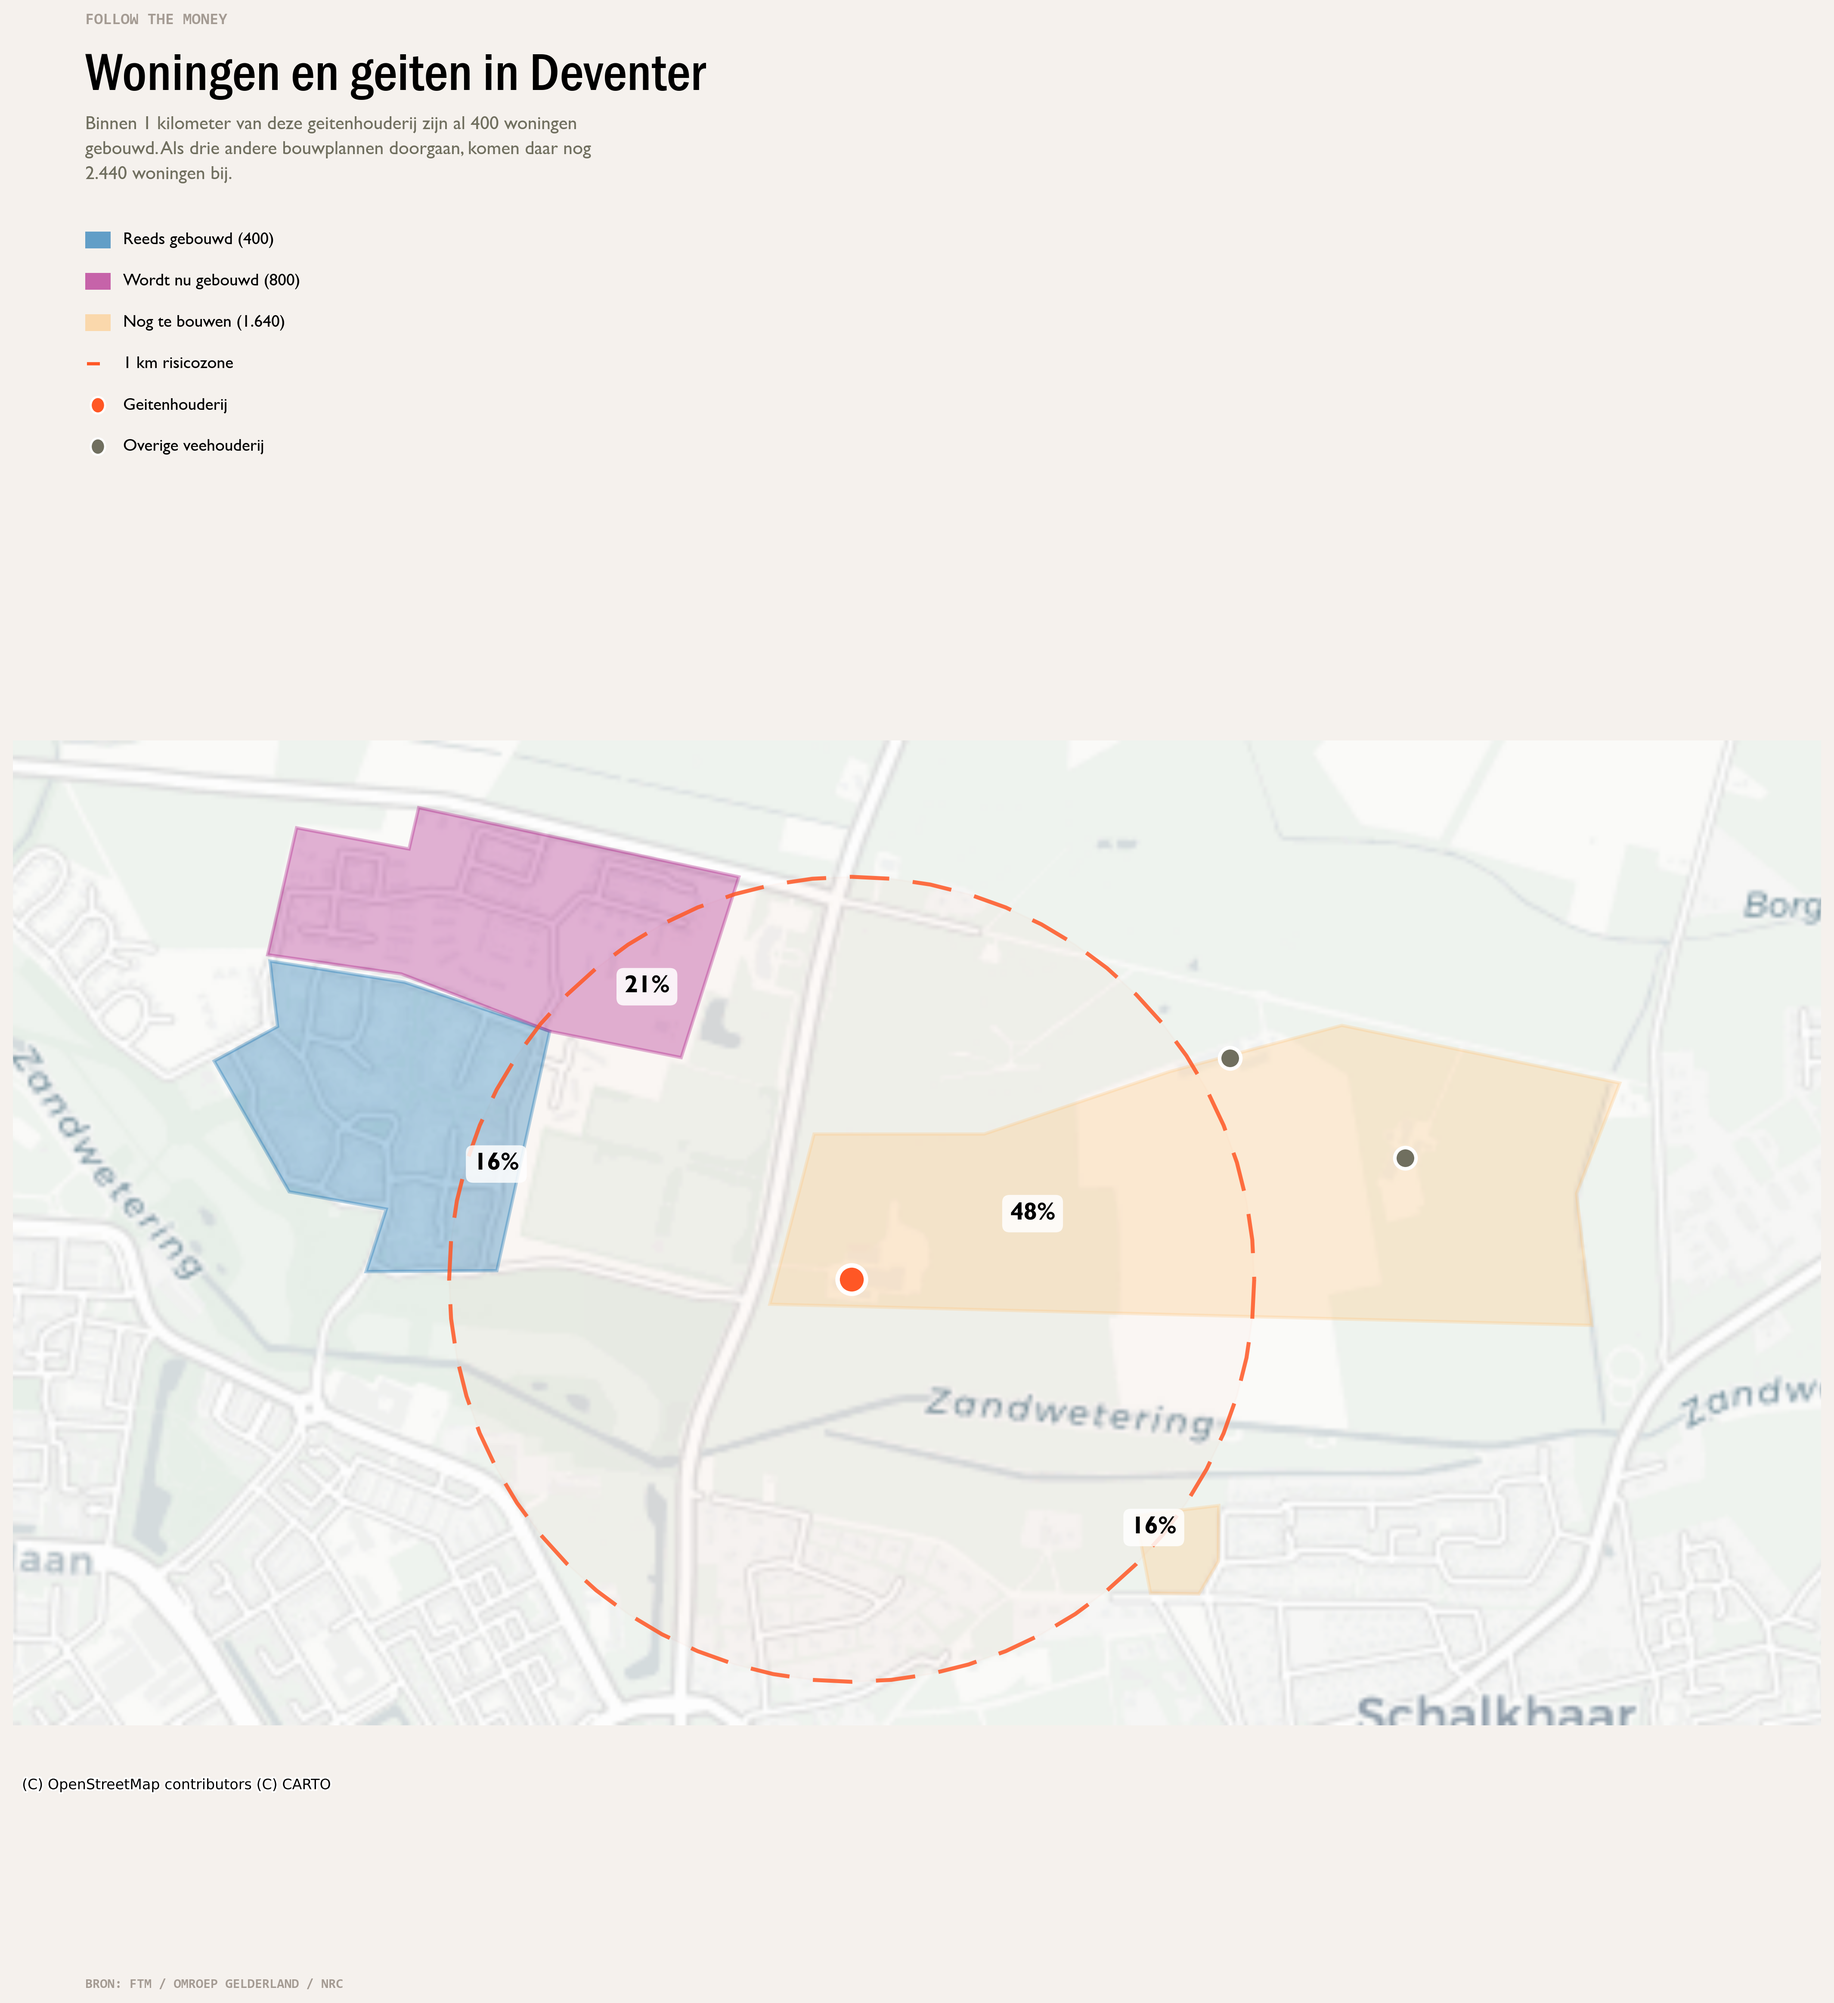
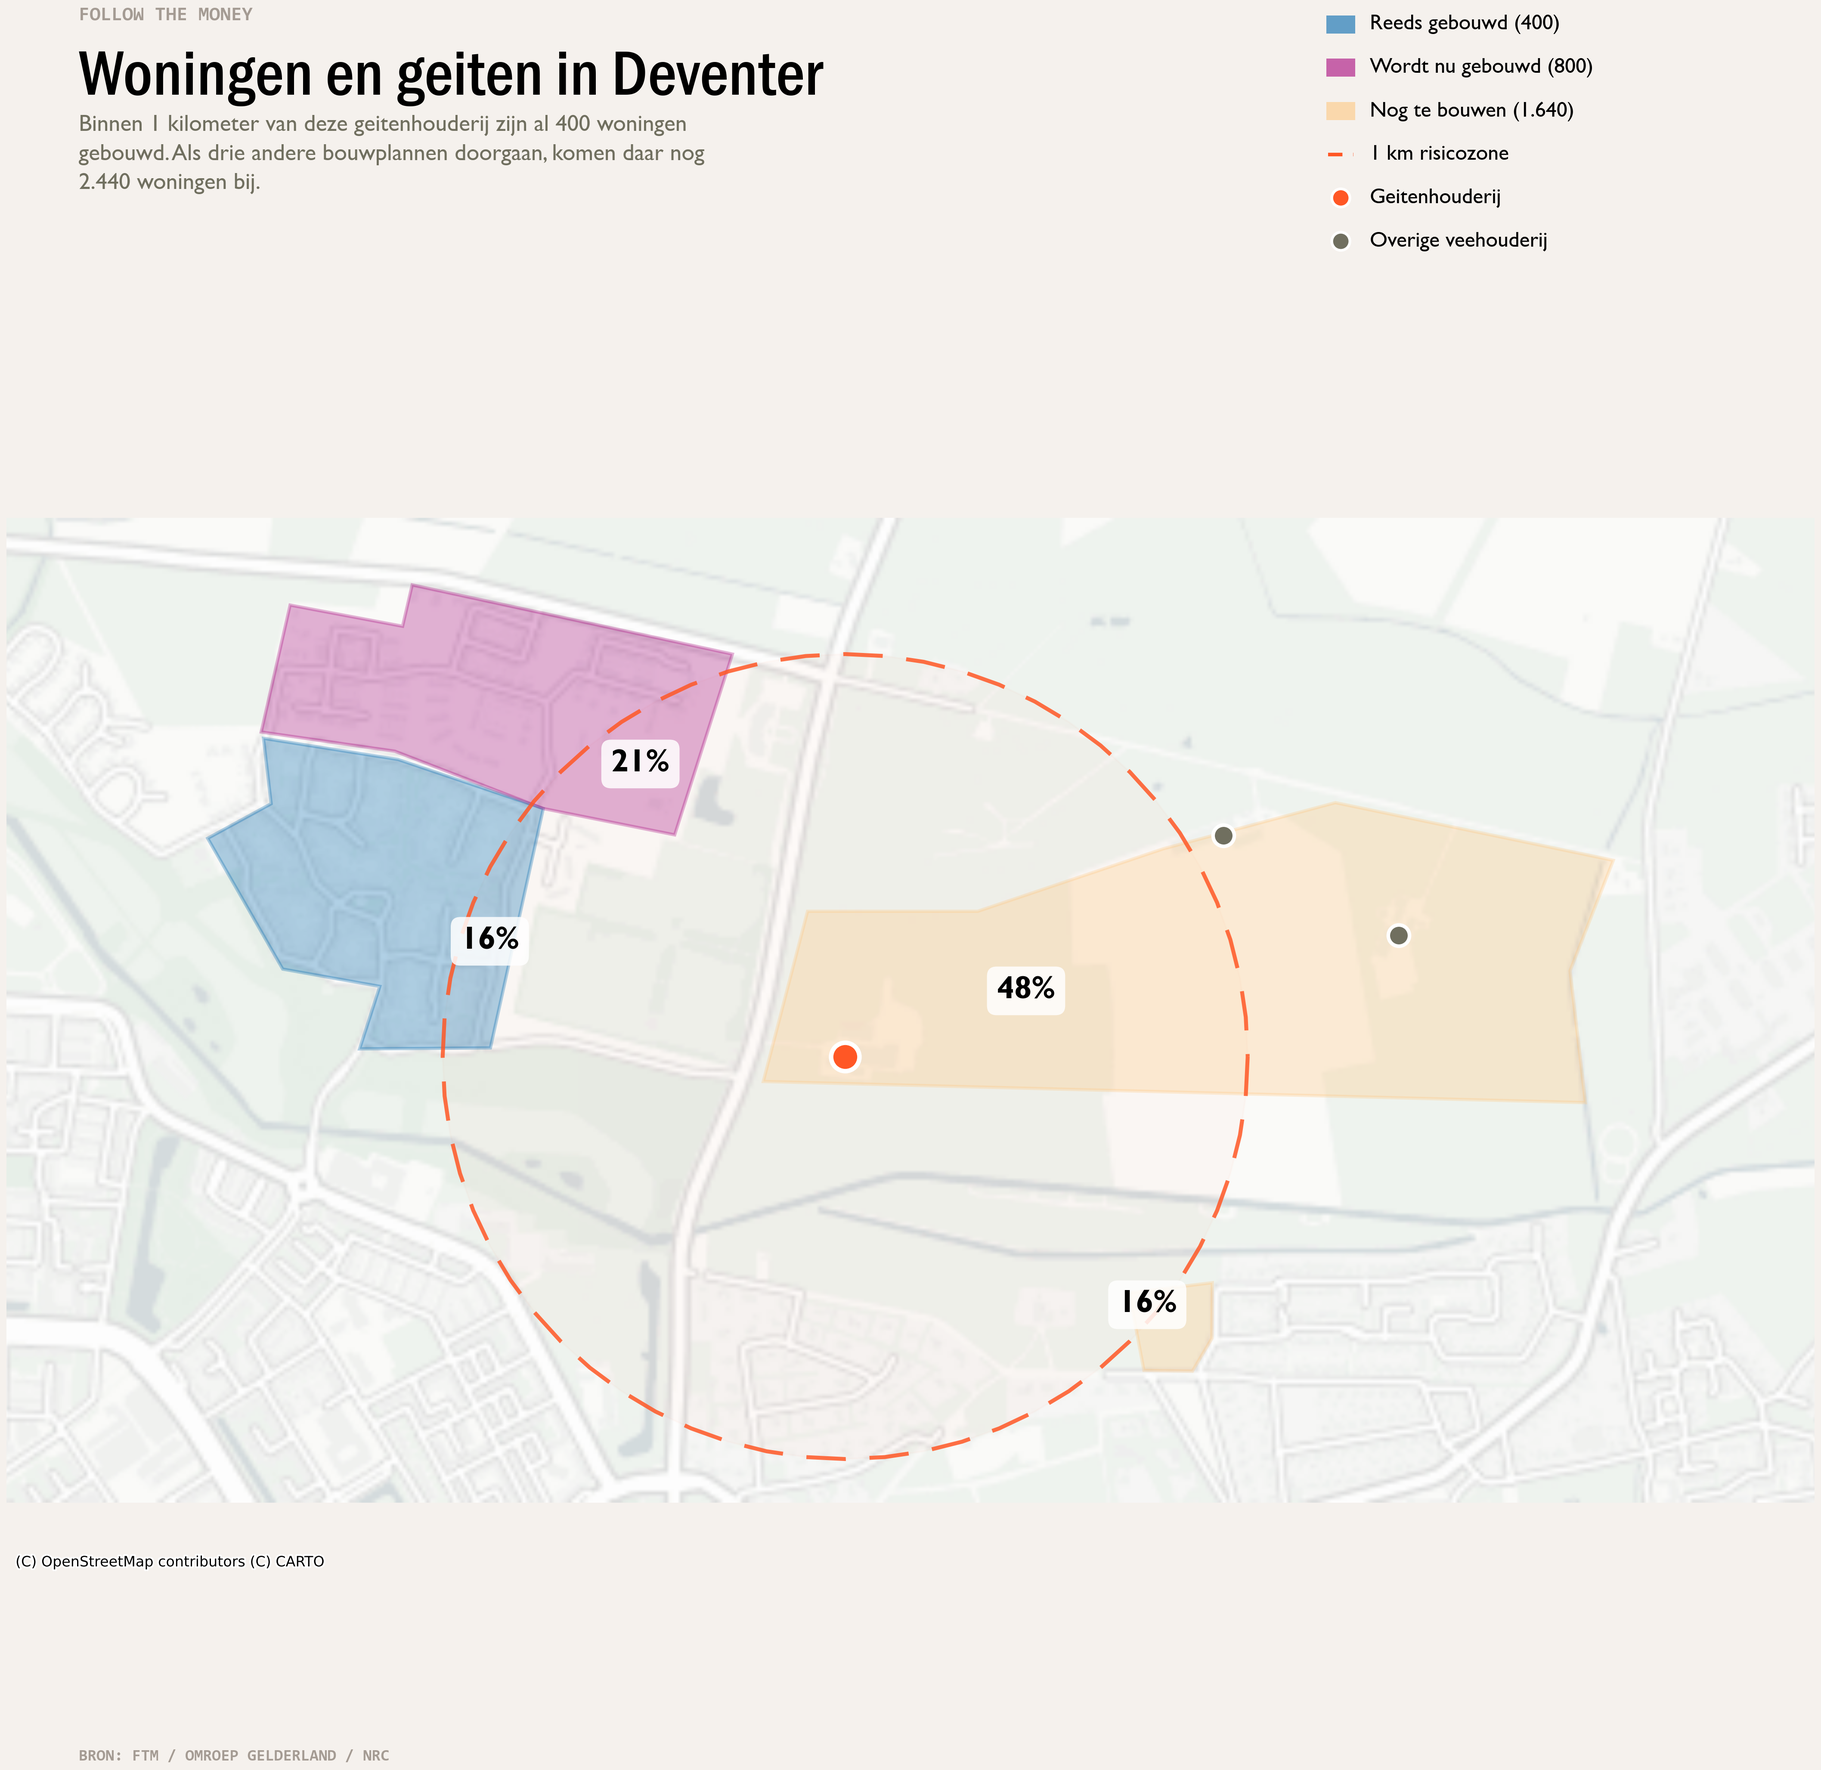
Tighten layout: legend top-right, bigger text, cleaner basemap
Move legend to top-right corner, increase all font sizes, switch to
PositronNoLabels basemap, and minimize margins between header and map.

diff --git a/create_map_image.py b/create_map_image.py
@@ -133,10 +133,10 @@ circle_geometry = goat_point.buffer(1000)
 # ============================================================
 # CREATE FIGURE
 # ============================================================
-fig = plt.figure(figsize=(14, 16), facecolor=C['offwhite'])
+fig = plt.figure(figsize=(14, 14), facecolor=C['offwhite'])
 
-# Map axes — positioned for editorial layout
-ax = fig.add_axes([0.0, 0.04, 1.0, 0.72])
+# Map axes — tight against header
+ax = fig.add_axes([0.0, 0.005, 1.0, 0.865])
 ax.set_facecolor(C['offwhite'])
 
 
@@ -161,7 +161,7 @@ for idx, row in gdf_polygons_mercator.iterrows():
         percentage = (intersection.area / row['geometry'].area) * 100
         centroid = intersection.centroid
         ax.text(centroid.x, centroid.y, f'{percentage:.0f}%',
-                fontsize=14, fontweight='bold', color=C['zwart'],
+                fontsize=18, fontweight='bold', color=C['zwart'],
                 fontfamily=FONT_UI,
                 ha='center', va='center',
                 bbox=dict(facecolor='white', edgecolor='none',
@@ -184,9 +184,9 @@ varkens_gdf.plot(ax=ax, color=C['dollargroen'], markersize=140, zorder=5,
 koeien_gdf.plot(ax=ax, color=C['dollargroen'], markersize=140, zorder=5,
                 edgecolor='white', linewidth=2, marker='o')
 
-# Basemap
+# Basemap — no labels for clean editorial look
 cx.add_basemap(ax, crs=gdf_polygons_mercator.crs,
-               source=cx.providers.CartoDB.Positron, zoom=14)
+               source=cx.providers.CartoDB.PositronNoLabels, zoom=14)
 
 # Bounds
 bounds = gdf_polygons_mercator.total_bounds
@@ -206,34 +206,34 @@ for spine in ax.spines.values():
 # ============================================================
 # Logo — GT America Mono Medium, ALL CAPS
 fig.text(0.04, 0.975, 'FOLLOW THE MONEY',
-         fontsize=9, fontweight='bold', fontfamily=FONT_MONO,
+         fontsize=11, fontweight='bold', fontfamily=FONT_MONO,
          color=C['zilver'], ha='left', va='top',
          transform=fig.transFigure)
 
 # Title — Pilat Condensed
-fig.text(0.04, 0.955, 'Woningen en geiten in Deventer',
-         fontsize=30, fontweight='bold', fontfamily=FONT_TITLE,
+fig.text(0.04, 0.950, 'Woningen en geiten in Deventer',
+         fontsize=36, fontweight='bold', fontfamily=FONT_TITLE,
          color=C['zwart'], ha='left', va='top',
          transform=fig.transFigure)
 
 # Subtitle — GT America Regular
-fig.text(0.04, 0.925,
+fig.text(0.04, 0.915,
          'Binnen 1 kilometer van deze geitenhouderij zijn al 400 woningen\n'
          'gebouwd. Als drie andere bouwplannen doorgaan, komen daar nog\n'
          '2.440 woningen bij.',
-         fontsize=10.5, fontfamily=FONT_UI,
+         fontsize=13, fontfamily=FONT_UI,
          color=C['dollargroen'], ha='left', va='top',
-         transform=fig.transFigure, linespacing=1.6)
+         transform=fig.transFigure, linespacing=1.5)
 
 
 # ============================================================
-# LEGEND — no frame, clean editorial style
+# LEGEND — top-right, no frame, editorial style
 # ============================================================
-leg_x = 0.04
-leg_y = 0.865
-leg_step = 0.020
-sw_w = 0.014
-sw_h = 0.008
+leg_x = 0.73
+leg_y = 0.965
+leg_step = 0.024
+sw_w = 0.016
+sw_h = 0.010
 
 # Category swatches
 categories = [
@@ -251,19 +251,19 @@ for i, (color, label) in enumerate(categories):
         transform=fig.transFigure, figure=fig, zorder=10
     )
     fig.patches.append(rect)
-    fig.text(leg_x + sw_w + 0.007, y, label,
-             fontsize=9.5, fontfamily=FONT_UI, color=C['zwart'],
+    fig.text(leg_x + sw_w + 0.008, y, label,
+             fontsize=12, fontfamily=FONT_UI, color=C['zwart'],
              va='center', transform=fig.transFigure)
 
 # Dashed line — risk zone
 y_d = leg_y - len(categories) * leg_step
 fig.lines.append(Line2D(
     [leg_x + 0.001, leg_x + sw_w - 0.001], [y_d, y_d],
-    color=C['rood'], linewidth=1.8, linestyle='--',
+    color=C['rood'], linewidth=2, linestyle='--',
     dashes=(4, 3), transform=fig.transFigure, figure=fig
 ))
-fig.text(leg_x + sw_w + 0.007, y_d, '1 km risicozone',
-         fontsize=9.5, fontfamily=FONT_UI, color=C['zwart'],
+fig.text(leg_x + sw_w + 0.008, y_d, '1 km risicozone',
+         fontsize=12, fontfamily=FONT_UI, color=C['zwart'],
          va='center', transform=fig.transFigure)
 
 # Circle markers
@@ -275,20 +275,20 @@ markers = [
 for i, (color, label) in enumerate(markers):
     y = y_d - (i + 1) * leg_step
     fig.patches.append(mpatches.Circle(
-        (leg_x + sw_w / 2, y), radius=0.004,
-        facecolor=color, edgecolor='white', linewidth=1.2,
+        (leg_x + sw_w / 2, y), radius=0.005,
+        facecolor=color, edgecolor='white', linewidth=1.5,
         transform=fig.transFigure, figure=fig, zorder=10
     ))
-    fig.text(leg_x + sw_w + 0.007, y, label,
-             fontsize=9.5, fontfamily=FONT_UI, color=C['zwart'],
+    fig.text(leg_x + sw_w + 0.008, y, label,
+             fontsize=12, fontfamily=FONT_UI, color=C['zwart'],
              va='center', transform=fig.transFigure)
 
 
 # ============================================================
 # SOURCE — GT America Mono Medium, ALL CAPS
 # ============================================================
-fig.text(0.04, 0.018, 'BRON: FTM / OMROEP GELDERLAND / NRC',
-         fontsize=7.5, fontfamily=FONT_MONO, fontweight='bold',
+fig.text(0.04, 0.003, 'BRON: FTM / OMROEP GELDERLAND / NRC',
+         fontsize=9, fontfamily=FONT_MONO, fontweight='bold',
          color=C['zilver'], ha='left', va='bottom',
          transform=fig.transFigure)
 
@@ -297,6 +297,7 @@ fig.text(0.04, 0.018, 'BRON: FTM / OMROEP GELDERLAND / NRC',
 # SAVE
 # ============================================================
 output_path = 'map_visualization.png'
-plt.savefig(output_path, dpi=300, bbox_inches='tight', facecolor=C['offwhite'])
+plt.savefig(output_path, dpi=300, bbox_inches='tight', pad_inches=0.05,
+            facecolor=C['offwhite'])
 print(f"Map saved to: {output_path}")
 plt.close()
